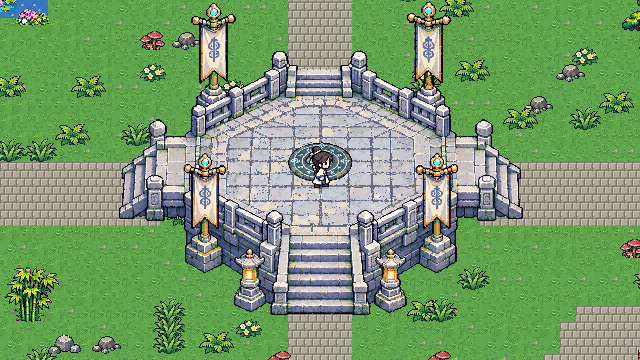
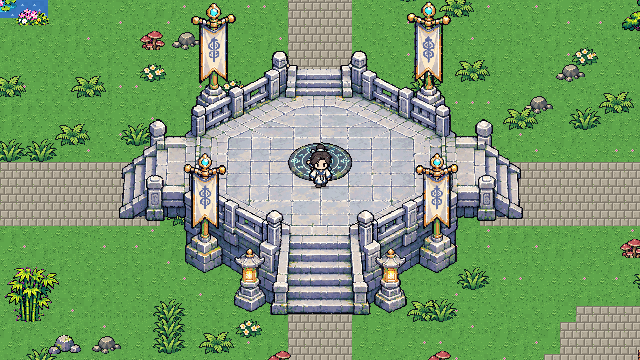
M8-02i: hoan tac to lai mat san be (tra san goc), giu sua lop co

Changed region(s): [[0.3125, 0.275, 0.6562, 0.6417]]

diff --git a/tools/build_be_phap_dai.py b/tools/build_be_phap_dai.py
@@ -1,7 +1,6 @@
 """M8: bệ Tụ Linh Pháp Đài (ChatGPT vẽ: docs/concept/tong_mon_be_phap_dai_4loi_chatgpt.png
      -> tools/sprite_clean.py --scale 2.85 --colors 96 --tol 60 -> sprites/tm_be.png).
 Sinh từ sprite:
-  - (trước đó tools/fix_be_san.py tô lại mặt sàn cho liền)
   - xoá điểm ám magenta còn sót (viền + khe lan can) ngay trên sprites/tm_be.png
   - mặt sàn: LOANG từ tâm qua điểm ảnh sáng (dừng ở viền tối), cắt nhánh mảnh lan lên lan can/trụ bằng phép mở hình thái học
     + bậc nam, lối bắc, 2 cánh đông/tây khoanh tay (đo trên sprite 1.9, trong khe giữa má bậc/trụ)

diff --git a/TASKS_TU_TIEN_LO.md b/TASKS_TU_TIEN_LO.md
@@ -375,7 +375,7 @@ Thiết kế + backlog đầy đủ (ChatGPT, 13/11): **`docs/chatgpt_tong_mon_M
   - [x] M8-02f (14/11) Sửa bệ lần 2: nhỏ thêm (`--scale 1.9`, ~84% bản đầu); mặt sàn tìm tự động (loang từ tâm + mở hình thái), bậc/cánh khoanh trong khe má bậc/trụ; va chạm lưới mịn 4 px (`PLAZA.fine`, `m.solidPx`) — vật phía bắc sàn chỉ đặc ở chân, phía nam đặc cả khối; nắn góc khi đi (chỉ sảnh) để men theo bậc dốc; test sect_map loang theo `canStand` bước 4 px; ảnh kiểm tra va chạm `docs/playtest/M8_be_va_cham.png`; 204/204; phím thật 16 chỗ mép bệ, chỉ giữ A/D từ tâm tới Tàng Kinh 6,3 s / Đan Dược ~6,2 s
   - [x] M8-02g (14/11) Góp ý: nới vùng chặn 6 px quanh khối phía nam (vách, đèn, má bậc, trụ dưới cánh, bệ cờ nam; không lấn mặt sàn) để nhân vật không áp sát rồi bị lớp che đè; cờ phía nam ở lớp che chỉ giữ điểm ảnh cờ (lọc màu) thay vì cả khung — hết mảng sàn đè lên nhân vật; 204/204; phím thật `docs/playtest/M8_02g_mep_be.png`
   - [x] M8-02h (14/11) Bệ thu còn 2/3 (`--scale 2.85`, 408×315); vòng thiên kiếp ở sảnh thu theo (`TRIBULATION.SECT_ARENA_R` 62, `createTrib(..., R)`, động phủ cũ giữ 96) — người phát triển chọn; lớp che cờ nam chỉ giữ mảng màu cờ ≥ 30 px (hết hạt lơ lửng); cấm đứng ở chỗ trụ khắc chữ đầu cánh đè lên thân; không nới vùng chặn vào sàn/bậc/cánh; 204/204; phím thật `docs/playtest/M8_02h_mep_be.png`
-  - [x] M8-02i (14/11) Mặt sàn bệ tô lại cho liền (`tools/fix_be_san.py`: kẻ ô sáng → mạch đá tối, chuyển màu theo vòng đá ngoài — hết "tấm kính" bát giác giữa); lớp che cờ nam = màu cờ + viền tối sát màu cờ, mảng liền ≥ 30 px → giữ cả 2 núm tròn, không vụn; 204/204; ảnh `docs/playtest/M8_02i_co.png`, `M8_02i_san.png`
+  - [x] M8-02i (14/11) (Tô lại mặt sàn bằng `tools/fix_be_san.py` đã thử rồi BỎ theo người phát triển: "sàn xấu, trả lại sàn cũ" — giữ sàn gốc ChatGPT); lớp che cờ nam = màu cờ + viền tối sát màu cờ, mảng liền ≥ 30 px → giữ cả 2 núm tròn, không vụn; 204/204; ảnh `docs/playtest/M8_02i_co.png`, `M8_02i_san.png`
 - [ ] M8-03 Hệ thống tương tác công trình dùng chung (M, P0)
 - [ ] M8-04 Cổng Bí Cảnh (S, P0)
 - [ ] M8-05 Tụ Linh Pháp Đài (M, P0) → GATE M8-A
